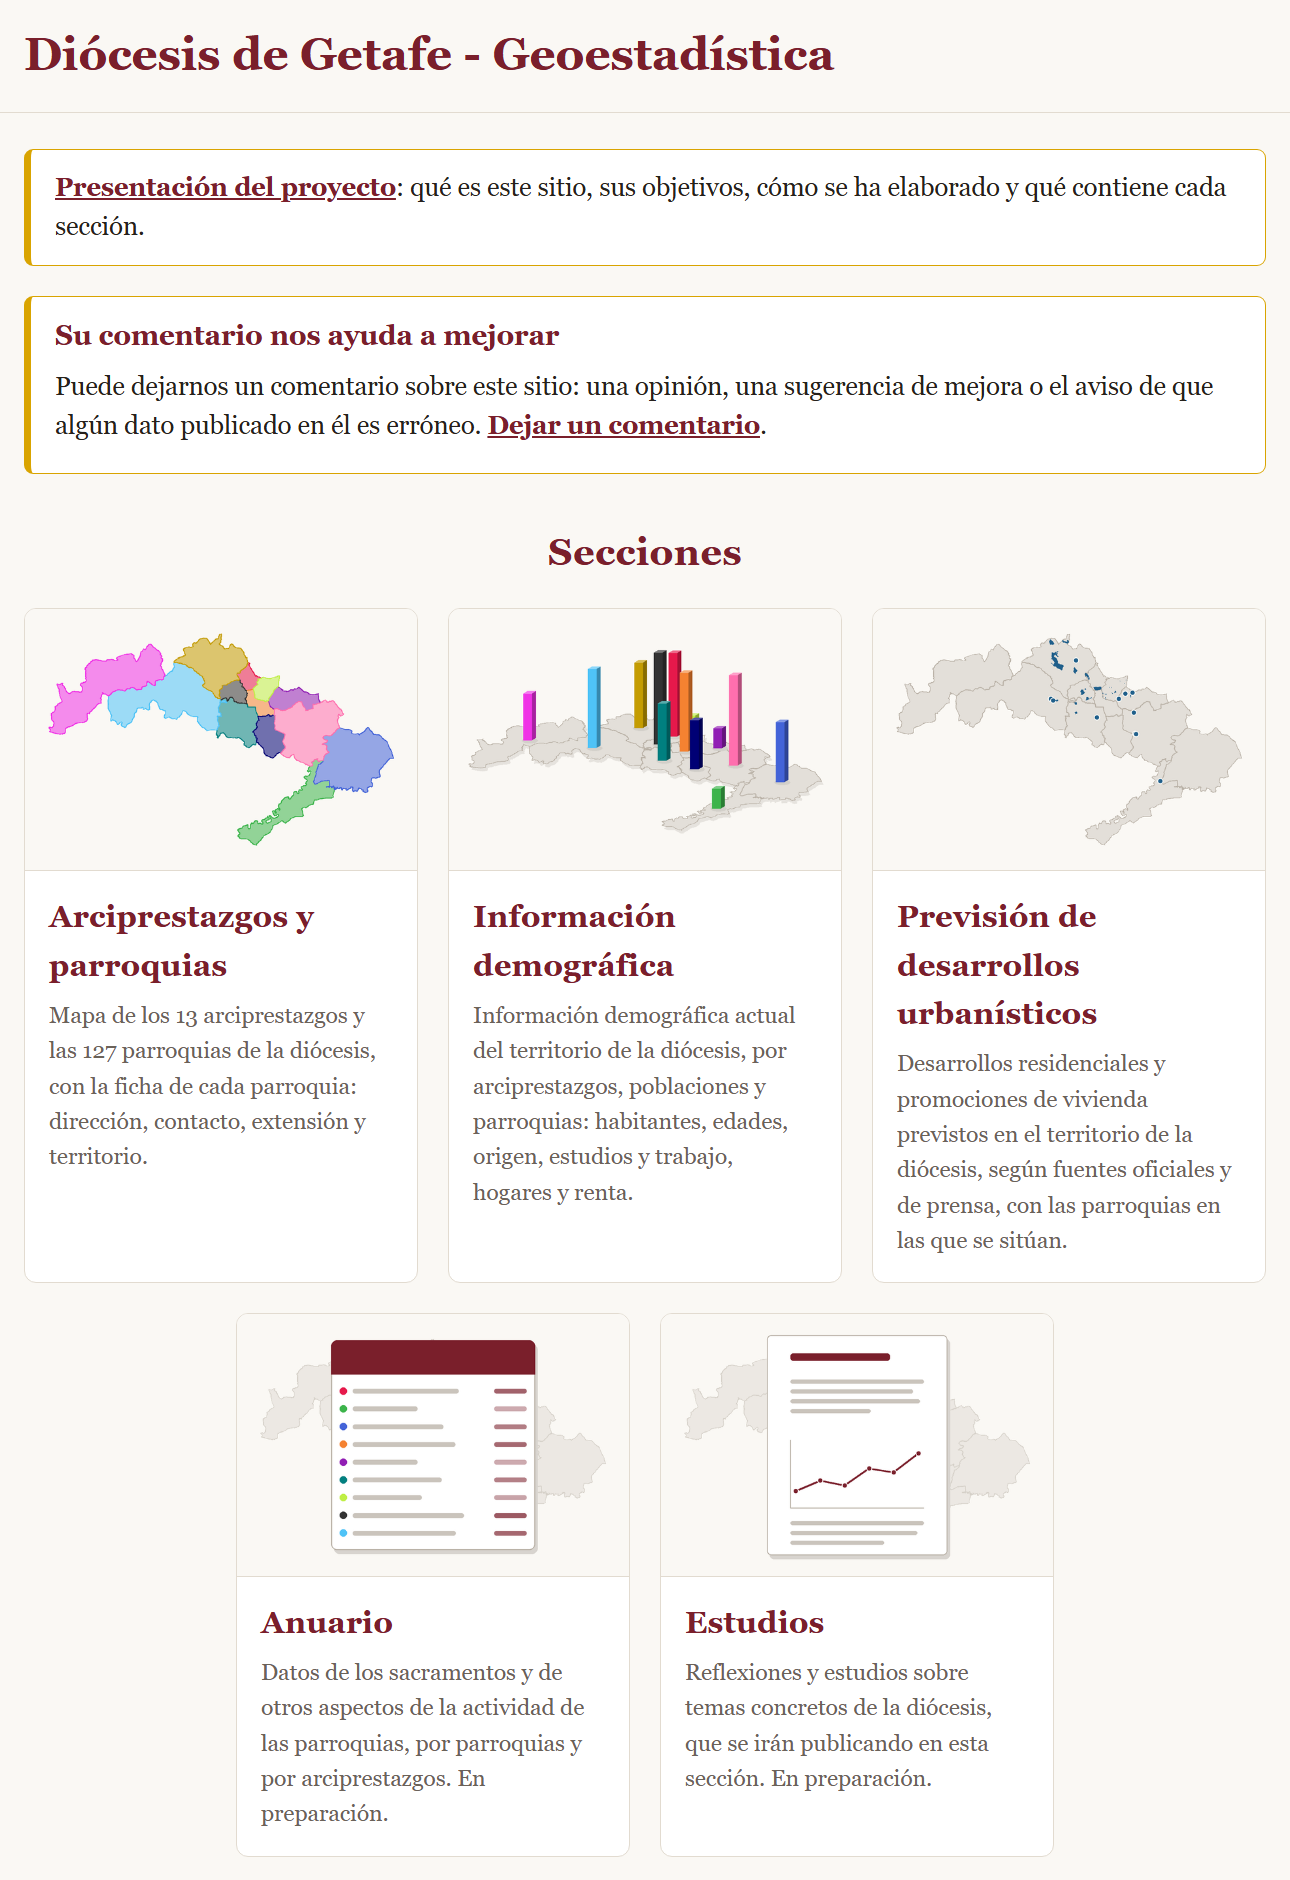
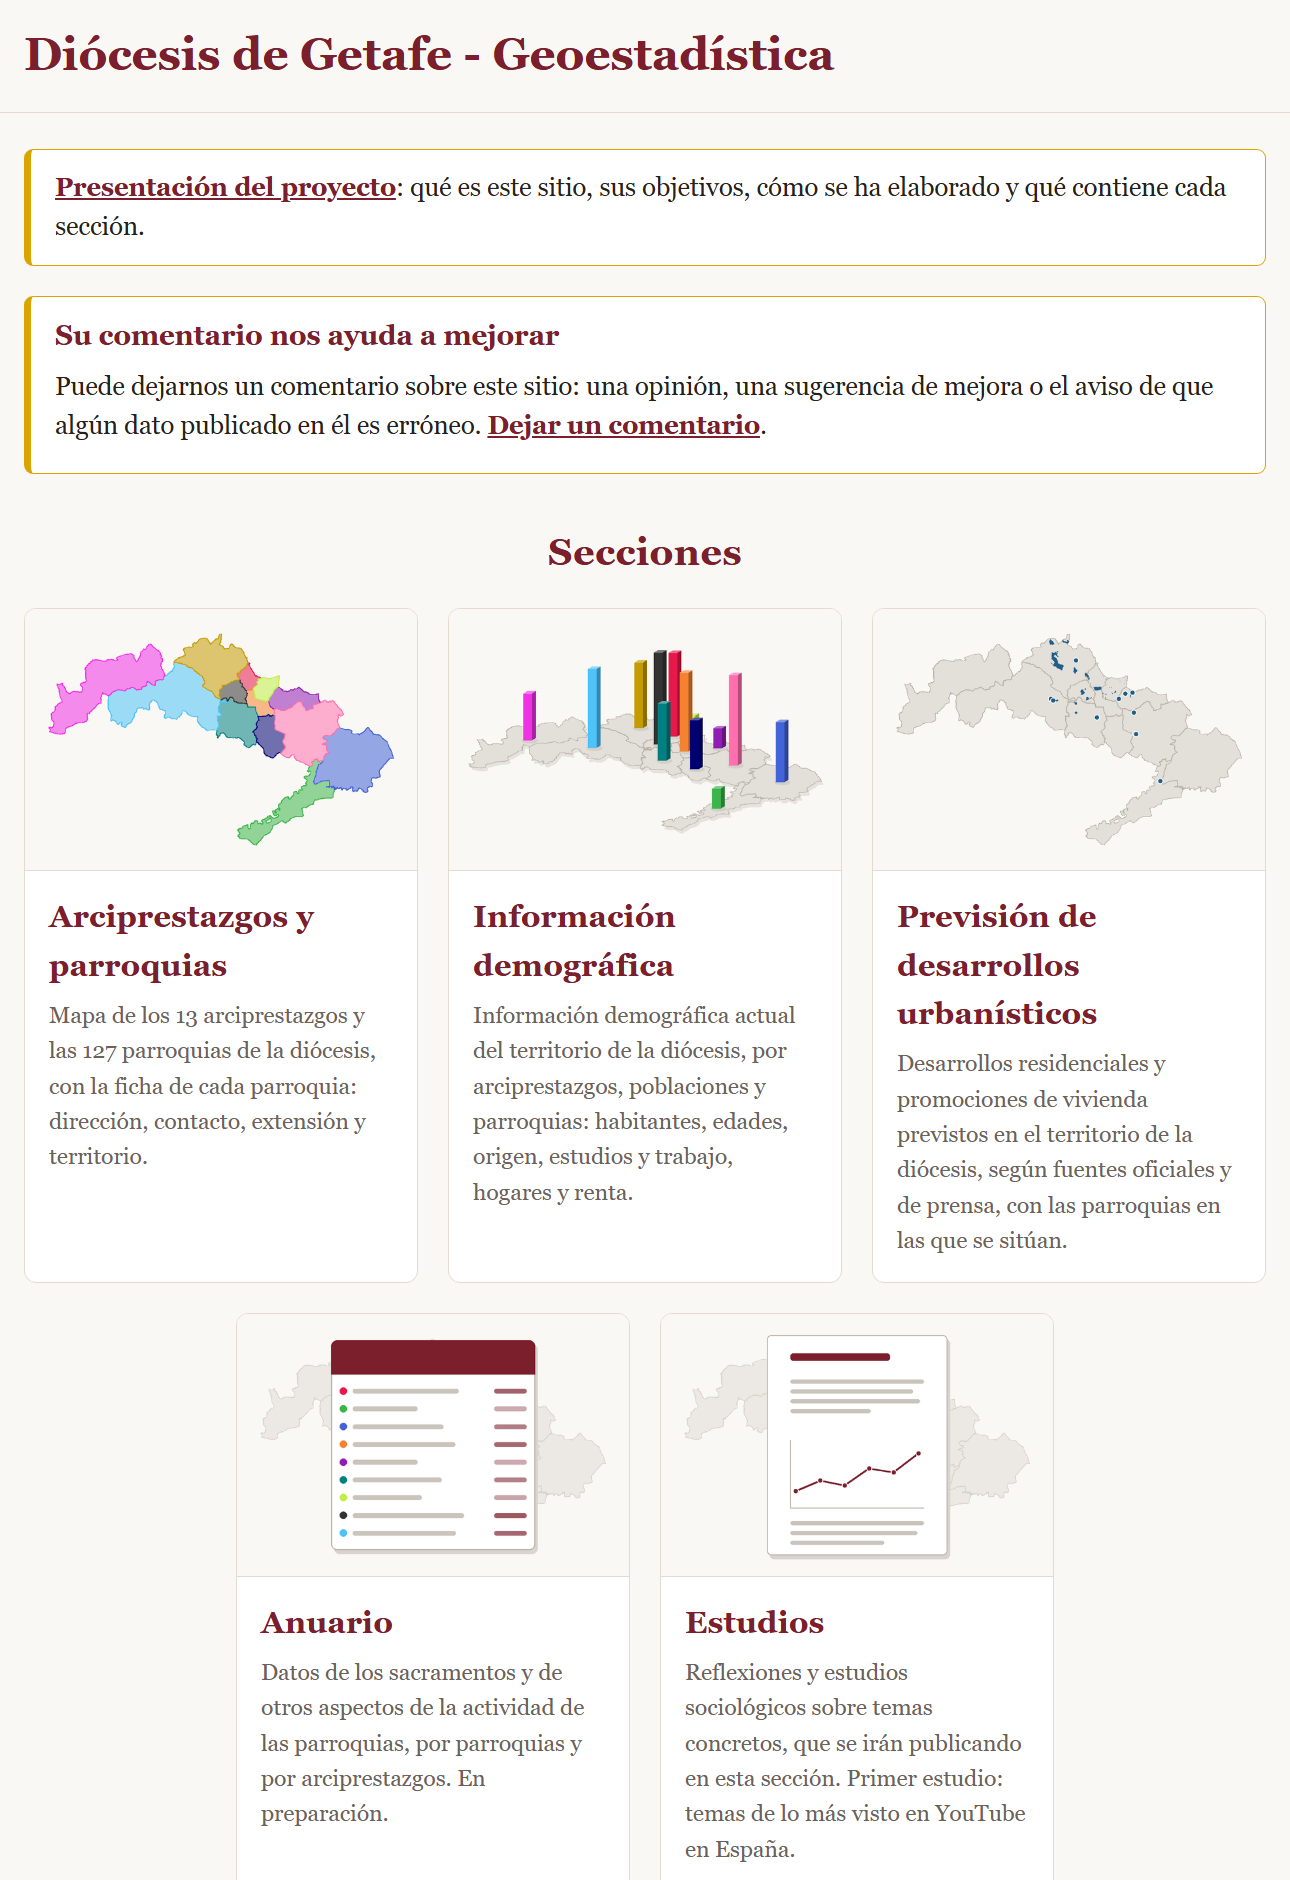
Estudios: «estudios sociológicos» y presentación al día
- Texto de la sección «Estudios»: «Reflexiones y estudios sociológicos sobre temas
  concretos…» (antes, «… temas concretos de la diócesis»), en la portada y en el índice.
- Presentación (versión web): el mismo texto, «Estudios» como sección publicada con su
  primer estudio, pasos siguientes al día y nueva captura de la portada.

Changed region(s): [[0.5271, 0.8638, 0.7752, 0.9872]]

diff --git a/presentacion/index.html b/presentacion/index.html
@@ -5,7 +5,7 @@
 <meta name="viewport" content="width=device-width, initial-scale=1">
 <title>Presentación del proyecto · Geoestadística de la Diócesis de Getafe</title>
 <meta name="description" content="Qué es el sitio Geoestadística de la Diócesis de Getafe, sus objetivos, cómo se ha elaborado y qué contiene cada sección.">
-<link rel="stylesheet" href="../assets/estilo.css?v=7cb4c547">
+<link rel="stylesheet" href="../assets/estilo.css?v=96441a8c">
 <style>
 .pres p { margin: 0 0 10px; }
 .pres h2 { margin: 30px 0 10px; font-size: 1.45rem; line-height: 1.25; color: var(--acento); }
@@ -122,7 +122,7 @@ espera que crezca. Se presenta como una propuesta de servicio para información 
 <li>Información demográfica</li>
 <li>Previsión de desarrollos urbanísticos</li>
 <li>Anuario <small>(en preparación)</small></li>
-<li>Estudios <small>(en preparación)</small></li>
+<li>Estudios</li>
 </ol>
 <p>La portada da paso a esta presentación e invita a dejar comentarios sobre el sitio.</p>
 <p class="fecha">Noviembre de 2026</p>
@@ -395,9 +395,9 @@ y prensa, citadas en la ficha de cada desarrollo. Datos del sitio a 14 de noviem
 <p class="volver"><a href="#contenido">Volver al índice</a></p>
 </section>
 <section class="bloque-pres" id="anuario-y-estudios">
-<p class="num-seccion">Secciones 4 y 5 · en preparación</p>
+<p class="num-seccion">Secciones 4 y 5</p>
 <h2>Anuario y Estudios</h2>
-<p class="entrada">Dos secciones ya abiertas en el sitio, todavía sin contenido.</p>
+<p class="entrada">Dos secciones abiertas en el sitio: el Anuario, todavía sin contenido, y Estudios, con su primer estudio.</p>
 <div class="dos">
 <div class="caja"><h3>Anuario</h3>
 <p>Recogerá, por parroquias y por arciprestazgos, datos de los sacramentos y de otros aspectos de la actividad de las parroquias.</p>
@@ -405,8 +405,10 @@ y prensa, citadas en la ficha de cada desarrollo. Datos del sitio a 14 de noviem
 los bautismos de una parroquia con los nacimientos de su zona.</p>
 <p>Solo se publicarán cifras agregadas, nunca datos de personas concretas.</p></div>
 <div class="caja"><h3>Estudios</h3>
-<p>Reunirá reflexiones y estudios sobre temas concretos de la diócesis, que se irán publicando.</p>
-<p>Cada estudio indicará su fecha, los datos en los que se apoya y sus fuentes.</p></div>
+<p>Reúne reflexiones y estudios sociológicos sobre temas concretos, que se irán publicando.</p>
+<p>El primero, «Temas de lo más visto en YouTube en España», muestra de qué tratan los vídeos más vistos en España,
+con datos de YouTube que se actualizan cada hora.</p>
+<p>Cada estudio indica su fecha, los datos en los que se apoya y sus fuentes.</p></div>
 </div>
 <h2>Resumen de las cinco secciones</h2>
 <div class="tabla-pres"><table class="resumen">
@@ -416,12 +418,12 @@ los bautismos de una parroquia con los nacimientos de su zona.</p>
 <tr><td>2. Información demográfica</td><td>Datos del INE en cuatro niveles, tablas comparativas, mapa temático, descarga y verificador de datos</td><td>Publicada</td></tr>
 <tr><td>3. Previsión de desarrollos urbanísticos</td><td>35 desarrollos con 49.456 viviendas previstas</td><td>Publicada</td></tr>
 <tr><td>4. Anuario</td><td>Sacramentos y actividad parroquial</td><td>En preparación</td></tr>
-<tr><td>5. Estudios</td><td>Reflexiones y estudios sobre temas concretos</td><td>En preparación</td></tr>
+<tr><td>5. Estudios</td><td>Reflexiones y estudios sociológicos sobre temas concretos; el primero, temas de lo más visto en YouTube en España</td><td>Publicada</td></tr>
 </tbody></table></div>
 <h2>Pasos siguientes</h2>
 <ul>
 <li><strong>Anuario:</strong> reunir los datos de sacramentos por parroquia y año (cifras agregadas) y acordar qué datos se publican.</li>
-<li><strong>Estudios:</strong> elegir los primeros temas.</li>
+<li><strong>Estudios:</strong> revisar el diccionario de temas del primer estudio con los datos de sus primeras semanas y elegir los temas de los siguientes.</li>
 <li><strong>Mantenimiento:</strong> actualizar los datos demográficos cada año, cuando el INE publique el nuevo censo, e
 incorporar los desarrollos urbanísticos nuevos.</li>
 <li><strong>Correcciones:</strong> recoger las que comuniquen las parroquias sobre sus datos y sus límites.</li>

diff --git a/index.html b/index.html
@@ -23,7 +23,7 @@ publicado en él es erróneo. <a href="comentarios/index.html">Dejar un comentar
 <a class="tarjeta-seccion" href="informacion-demografica/index.html"><img src="assets/miniatura-demografia.png" width="600" height="400" alt=""><h2>Información demográfica</h2><p>Información demográfica actual del territorio de la diócesis, por arciprestazgos, poblaciones y parroquias: habitantes, edades, origen, estudios y trabajo, hogares y renta.</p></a>
 <a class="tarjeta-seccion" href="desarrollos-urbanisticos/index.html"><img src="assets/miniatura-desarrollos.png" width="600" height="400" alt=""><h2>Previsión de desarrollos urbanísticos</h2><p>Desarrollos residenciales y promociones de vivienda previstos en el territorio de la diócesis, según fuentes oficiales y de prensa, con las parroquias en las que se sitúan.</p></a>
 <a class="tarjeta-seccion" href="anuario/index.html"><img src="assets/miniatura-anuario.png" width="600" height="400" alt=""><h2>Anuario</h2><p>Datos de los sacramentos y de otros aspectos de la actividad de las parroquias, por parroquias y por arciprestazgos. En preparación.</p></a>
-<a class="tarjeta-seccion" href="estudios/index.html"><img src="assets/miniatura-estudios.png" width="600" height="400" alt=""><h2>Estudios</h2><p>Reflexiones y estudios sobre temas concretos de la diócesis, que se irán publicando en esta sección. Primer estudio: temas de lo más visto en YouTube en España.</p></a>
+<a class="tarjeta-seccion" href="estudios/index.html"><img src="assets/miniatura-estudios.png" width="600" height="400" alt=""><h2>Estudios</h2><p>Reflexiones y estudios sociológicos sobre temas concretos, que se irán publicando en esta sección. Primer estudio: temas de lo más visto en YouTube en España.</p></a>
 </section>
 <section class="aviso-novedades cuadro-portada" aria-labelledby="aviso-novedades-tit">
 <h2 id="aviso-novedades-tit">Datos nuevos del INE: se incorporarán próximamente</h2>

diff --git a/estudios/index.html b/estudios/index.html
@@ -4,7 +4,7 @@
 <meta charset="utf-8">
 <meta name="viewport" content="width=device-width, initial-scale=1">
 <title>Estudios · Geoestadística de la Diócesis de Getafe</title>
-<meta name="description" content="Reflexiones y estudios sobre temas concretos de la diócesis, que se irán publicando en esta sección.">
+<meta name="description" content="Reflexiones y estudios sociológicos sobre temas concretos, que se irán publicando en esta sección.">
 <link rel="stylesheet" href="../assets/estilo.css?v=96441a8c">
 </head>
 <body>
@@ -13,7 +13,7 @@
 <nav class="miga"><a href="../index.html">Geoestadística</a> › Estudios</nav>
 <article class="ficha">
 <h2>Estudios</h2>
-<p>Reflexiones y estudios sobre temas concretos de la diócesis, que se irán publicando en esta sección.</p>
+<p>Reflexiones y estudios sociológicos sobre temas concretos, que se irán publicando en esta sección.</p>
 <p>Cada estudio indica su fecha, los datos en los que se apoya y sus fuentes.</p>
 <ul class="estudios">
 <li><a href="temas-en-youtube/index.html">Temas de lo más visto en YouTube en España</a>. De qué tratan los vídeos más vistos en España: los temas más presentes ahora mismo y en el último día, la última semana y el último mes, con datos de YouTube que se actualizan cada hora.</li>
